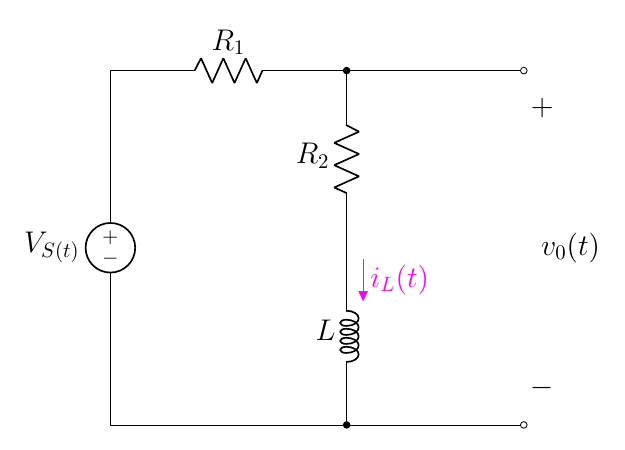
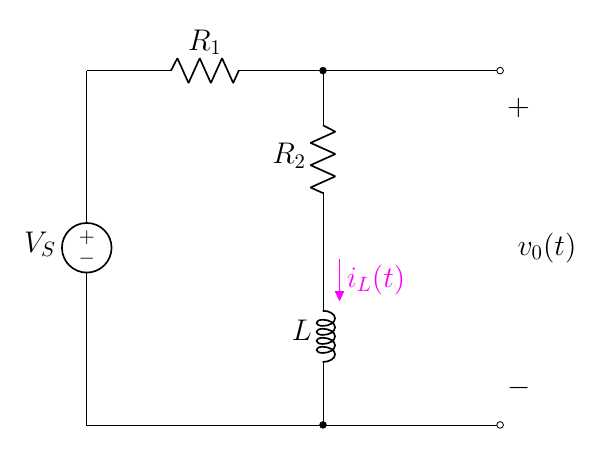
7.17

diff --git a/2.1 Source-Free RL/7.3 Source-Free RL/7.17(new).tex b/2.1 Source-Free RL/7.3 Source-Free RL/7.17(new).tex
@@ -2,7 +2,7 @@
 \begin{document}
 \begin{circuitikz}[american,cute inductors]
     %%% vertical %%%
-    \draw(0,0) to[V,l=\vsname{(t)}] ++(0,6);
+    \draw(0,0) to[V,l=\vsname{}] ++(0,6);
     \draw(7,6) to[open,v^=$v_0(t)$] ++(0,-6);
 
     
